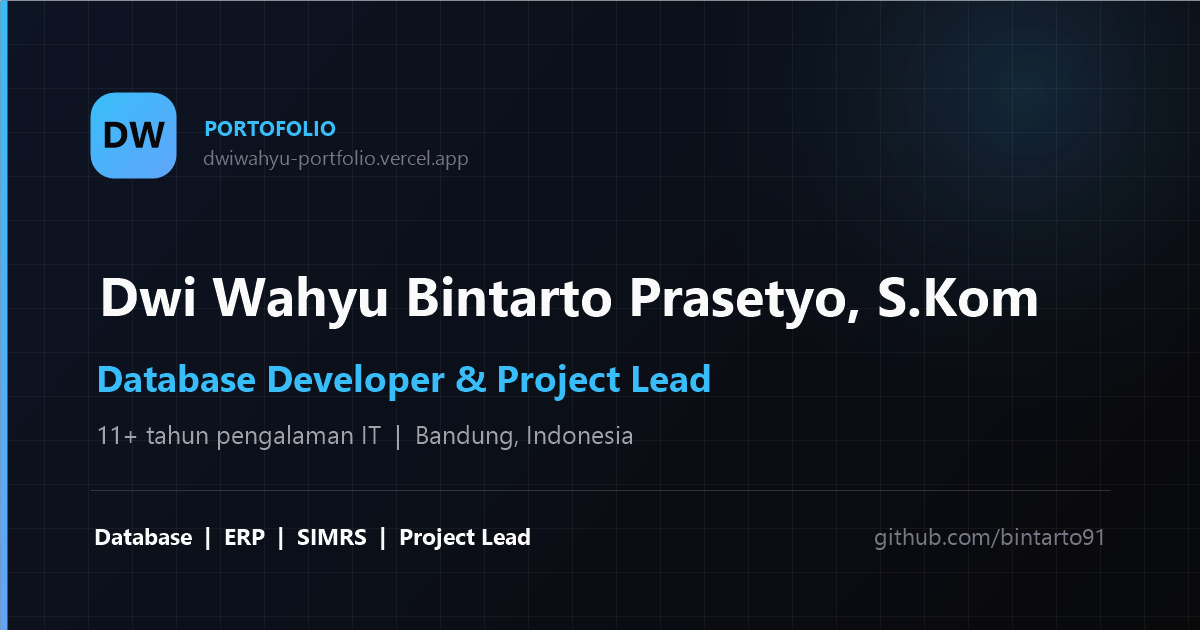
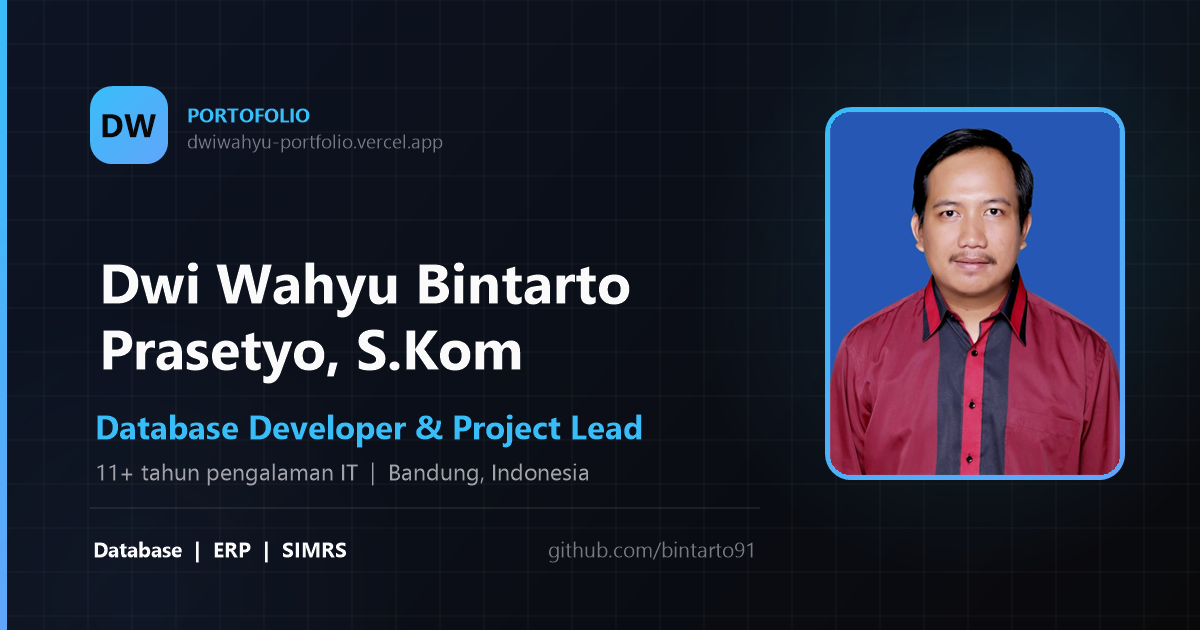
Pasang foto profil (900x1125) + foto di kartu pratinjau sosial

diff --git a/src/components/About.jsx b/src/components/About.jsx
@@ -33,13 +33,24 @@ export default function About() {
 
               <div className="relative overflow-hidden rounded-2xl border border-white/10 bg-zinc-900 shadow-2xl shadow-accent/10">
                 {fotoTampil ? (
-                  <img
-                    src={profile.photo}
-                    alt={`Foto ${profile.name}`}
-                    decoding="async"
-                    className="aspect-[4/5] w-full object-cover"
-                    onError={() => setFotoTampil(false)}
-                  />
+                  <>
+                    <img
+                      src={profile.photo}
+                      alt={`Foto ${profile.name}`}
+                      decoding="async"
+                      className="aspect-[4/5] w-full object-cover"
+                      onError={() => setFotoTampil(false)}
+                    />
+                    {/* sentuhan halus supaya foto menyatu dengan tema gelap */}
+                    <div
+                      aria-hidden="true"
+                      className="pointer-events-none absolute inset-0 bg-linear-to-t from-zinc-950/40 via-transparent to-transparent"
+                    />
+                    <div
+                      aria-hidden="true"
+                      className="pointer-events-none absolute inset-0 rounded-2xl ring-1 ring-white/10 ring-inset"
+                    />
+                  </>
                 ) : (
                   <div className="grid aspect-[4/5] w-full place-items-center bg-linear-to-br from-accent/15 via-zinc-900 to-accent-2/10">
                     <div className="px-6 text-center">
